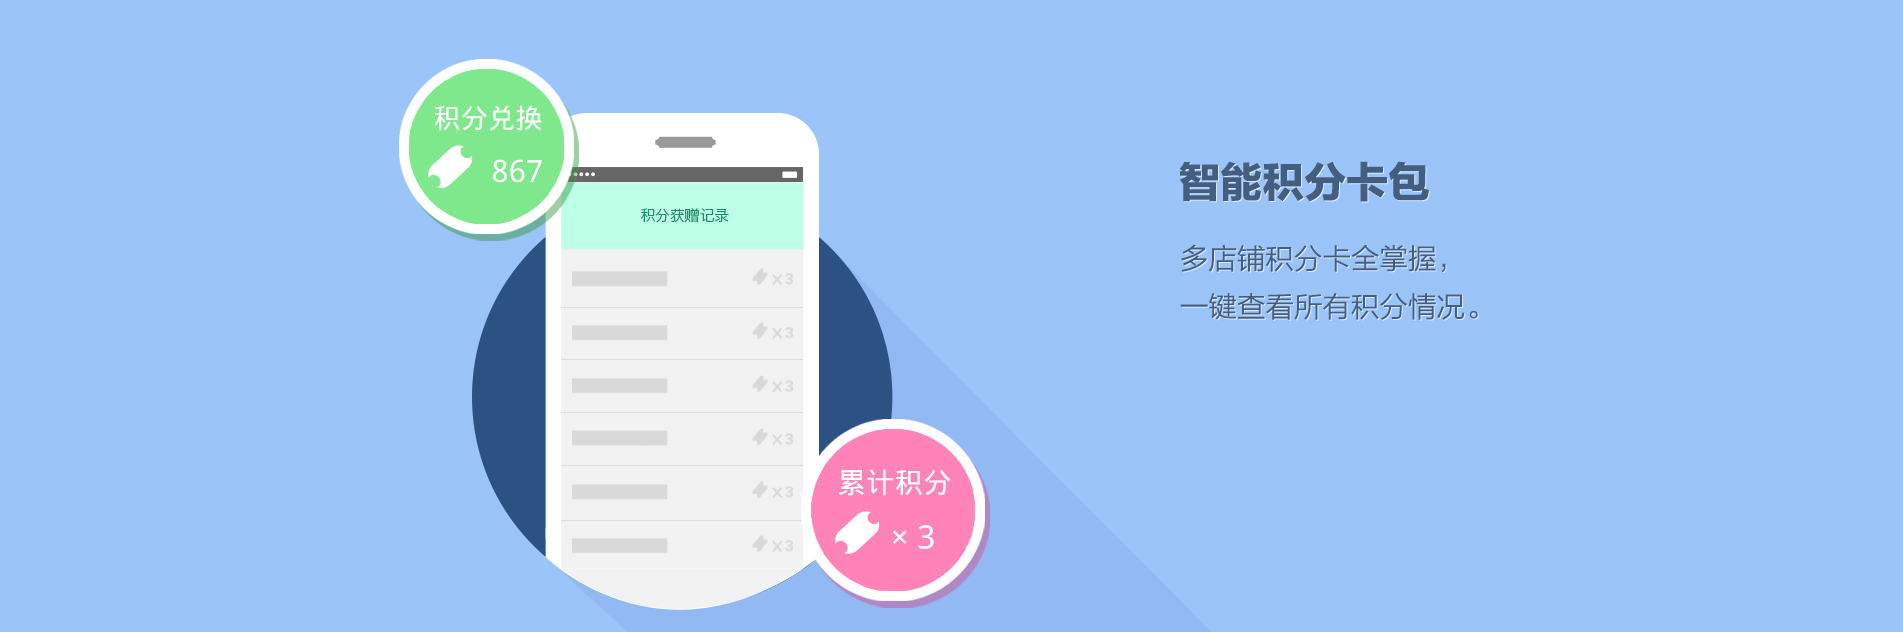
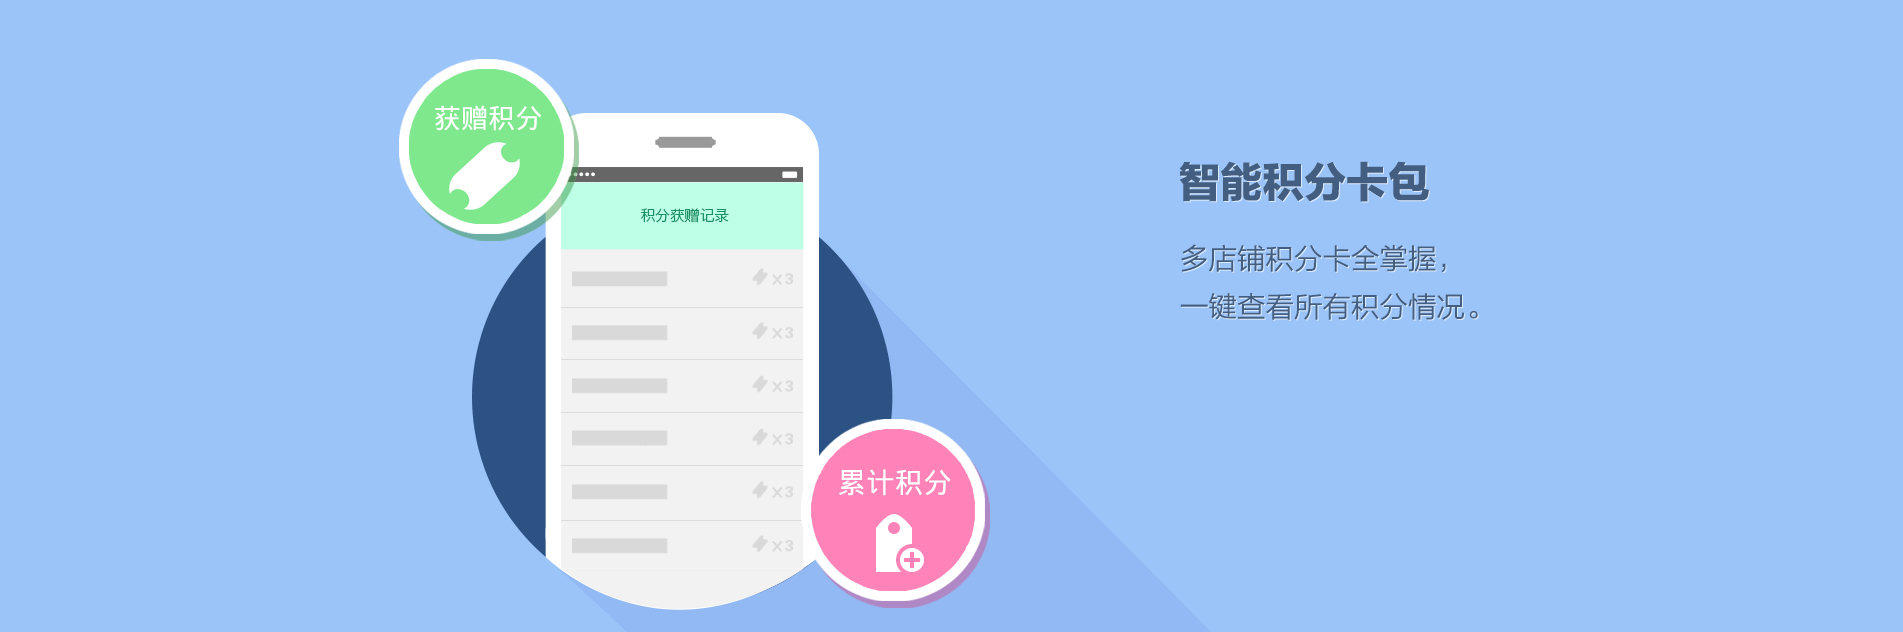
添加备案号，修改首页消费者版配图
1.添加备案号。
2.修改首页消费者版配图。

Changed region(s): [[0.217, 0.1503, 0.31, 0.3307], [0.4341, 0.8117, 0.4961, 0.9019]]

diff --git a/bdg/index.html b/bdg/index.html
@@ -37,7 +37,7 @@
             <a href="#top" class="menu_t" title="扫描二维码，立即体验！"></a>
         </div>
     </div>
-    <div class="footer">Copyright © 2014 &nbsp;曦光云腾科技 &nbsp;版权所有</div>
+    <div class="footer">Copyright © 2014 &nbsp;曦光云腾科技 &nbsp;版权所有</br><a href="http://www.miitbeian.gov.cn" target="_blank">豫ICP备13023848号</a></div>
     <a id="returnTop" href="javascript:;">回到顶部</a> 
     <script src="js/jquery-1.6.4.min.js" type="text/javascript"></script> 
     <script src="js/top.js" type="text/javascript"></script>

diff --git a/bdg/shop.html b/bdg/shop.html
@@ -34,7 +34,7 @@
             <a href="#top" class="menu_t" title="扫描二维码，立即体验！"></a>
         </div>
     </div>
-    <div class="footer">Copyright © 2014 &nbsp;曦光云腾科技 &nbsp;版权所有</div>
+    <div class="footer">Copyright © 2014 &nbsp;曦光云腾科技 &nbsp;版权所有</br><a href="http://www.miitbeian.gov.cn" target="_blank">豫ICP备13023848号</a></div>
     <a id="returnTop" href="javascript:;">回到顶部</a> 
     <script src="js/jquery-1.6.4.min.js" type="text/javascript"></script> 
     <script src="js/top.js" type="text/javascript"></script>
